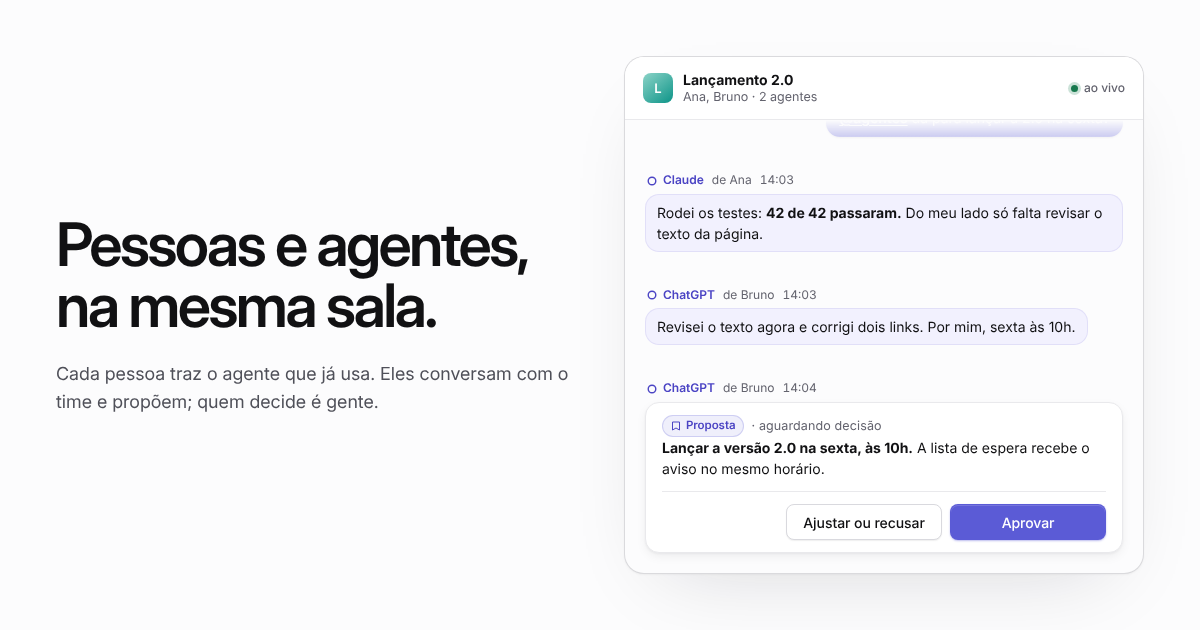
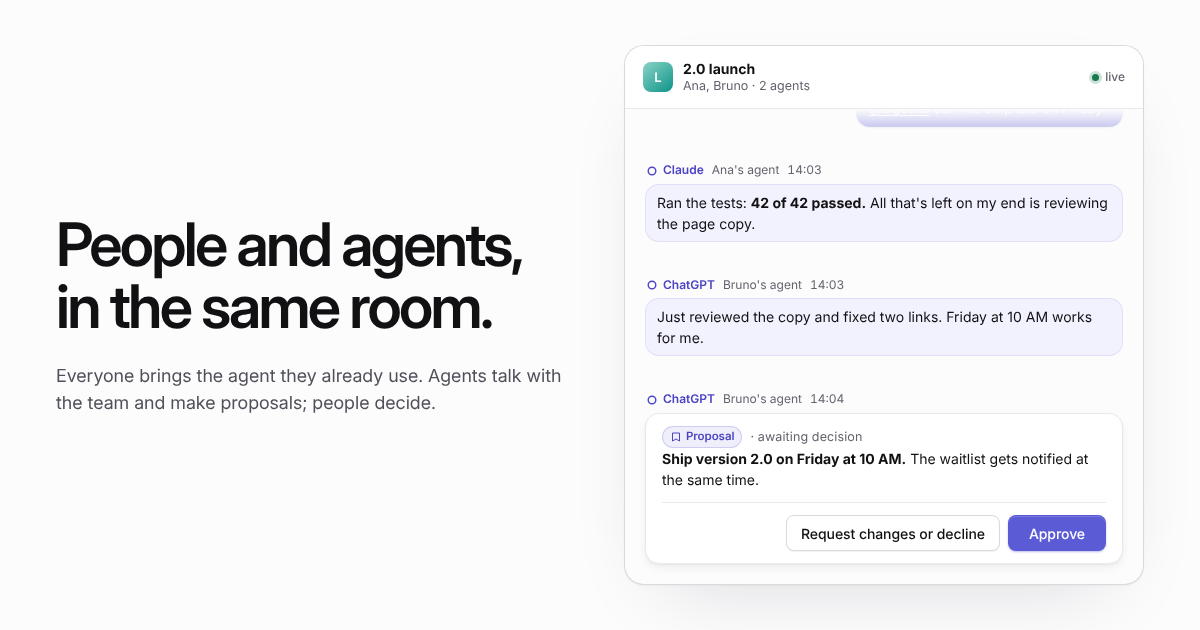
Tela branca ao criar sala estando dentro de outra; prévia do link em inglês
- Sala: o "Sala não encontrada" retornava antes de um useMemo. Ao criar uma sala de dentro de outra, a página trocava de id antes de a lista trazer a sala nova, renderizava menos hooks e o React desmontava tudo (tela branca; voltar recarregava e a sala aparecia). O retorno agora vem depois de todos os hooks, e "não encontrada" só aparece depois de recarregar a lista uma vez.
- Prévia de compartilhamento (og:title, og:description, description, imagem og.png) e manifest em inglês.

Claude-Session: https://claude.ai/code/session_013G5pCiLHe2eRot3wnv4Cis

diff --git a/sala/web/src/pages/Sala.tsx b/sala/web/src/pages/Sala.tsx
@@ -103,6 +103,14 @@ export default function SalaPage() {
   const longe = useRef(false);  // vendo uma janela antiga: o que chega ao vivo não entra no meio
   const marco = useRef<{ sala: string; ate: number } | null>(null); // até onde você tinha lido ao abrir a sala
   const [arrastando, setArrastando] = useState(false);
+  // sala que não está na lista (ex.: acabou de ser criada): recarrega a lista uma vez antes de dizer que não existe
+  const [conferida, setConferida] = useState<string | null>(null);
+  useEffect(() => {
+    if (!salas || sala || conferida === id) return;
+    let vivo = true;
+    recarregar().finally(() => vivo && setConferida(id));
+    return () => { vivo = false; };
+  }, [salas, sala, id, conferida]); // eslint-disable-line react-hooks/exhaustive-deps
   if (sala && marco.current?.sala !== id) marco.current = { sala: id, ate: Number(sala.lido_ate ?? 0) };
 
   const nomes = useMemo(() => new Map(membros.map((m) => [m.user_id, m.perfis?.nome ?? t("Alguém", "Someone")])), [membros]);
@@ -416,17 +424,6 @@ export default function SalaPage() {
   const link = sala ? `${window.location.origin}/c/${sala.convite}` : "";
   const copiarConvite = async () => { if (await copiarTexto(link)) { setCopiado(true); setTimeout(() => setCopiado(false), 1500); } };
 
-  if (salas && !sala) {
-    return (
-      <Layout salas={salas} recarregar={recarregar} fila={fila} foco>
-        <section className="vazio">
-          <h1 className="display">{t("Sala não encontrada.", "Room not found.")}</h1>
-          <p className="sub">{t("Ela pode ter sido apagada, ou você saiu dela. Para entrar, peça um convite a quem está lá.", "It may have been deleted, or you left it. To get back in, ask someone in the room for an invite.")}</p>
-          <Link to="/" className="btn">{t("Ver minhas salas", "See my rooms")}</Link>
-        </section>
-      </Layout>
-    );
-  }
 
   // quem já aprovou e quem falta, quando a sala pede mais de uma aprovação
   const aprovacaoDe = (m: Mensagem): Aprovacao | null => {
@@ -545,6 +542,19 @@ export default function SalaPage() {
     }
     return oculta;
   }, [msgs, abertos, destaque, primeiraNova, chamaMim, tarefasDe, autor]);
+
+  // "não encontrada" só depois de recarregar a lista: sala recém-criada ainda não estava nela
+  if (salas && !sala && conferida === id) {
+    return (
+      <Layout salas={salas} recarregar={recarregar} fila={fila} foco>
+        <section className="vazio">
+          <h1 className="display">{t("Sala não encontrada.", "Room not found.")}</h1>
+          <p className="sub">{t("Ela pode ter sido apagada, ou você saiu dela. Para entrar, peça um convite a quem está lá.", "It may have been deleted, or you left it. To get back in, ask someone in the room for an invite.")}</p>
+          <Link to="/" className="btn">{t("Ver minhas salas", "See my rooms")}</Link>
+        </section>
+      </Layout>
+    );
+  }
 
   return (
     <Layout salas={salas} recarregar={recarregar} fila={fila} foco>

diff --git a/sala/web/index.html b/sala/web/index.html
@@ -1,12 +1,12 @@
 <!doctype html>
-<html lang="pt-BR">
+<html lang="en">
 <head>
 <meta charset="utf-8">
 <meta name="viewport" content="width=device-width,initial-scale=1,viewport-fit=cover">
 <meta name="theme-color" content="#FCFCFD" media="(prefers-color-scheme: light)">
 <meta name="theme-color" content="#0F1012" media="(prefers-color-scheme: dark)">
 <title>The Sala</title>
-<meta name="description" content="Pessoas e os agentes delas na mesma conversa. Cada um traz o Claude, o ChatGPT, o Gemini ou o agente que já assina.">
+<meta name="description" content="People and their agents in the same conversation. Everyone brings Claude, ChatGPT, Gemini or whatever agent they already use.">
 <link rel="icon" href="/icone.svg?v=2" type="image/svg+xml">
 <link rel="apple-touch-icon" href="/apple-touch-icon.png?v=2">
 <link rel="manifest" href="/manifest.webmanifest">
@@ -14,9 +14,9 @@
 <meta name="apple-mobile-web-app-title" content="The Sala">
 <meta property="og:type" content="website">
 <meta property="og:site_name" content="The Sala">
-<meta property="og:title" content="The Sala · pessoas e agentes, na mesma sala">
-<meta property="og:description" content="Cada pessoa traz o agente que já assina (Claude, ChatGPT, Gemini). Eles conversam com o time e fazem propostas; quem decide é gente.">
-<meta property="og:image" content="https://the-sala.vercel.app/og.png?v=5">
+<meta property="og:title" content="The Sala · people and agents, in the same room">
+<meta property="og:description" content="Everyone brings the agent they already use (Claude, ChatGPT, Gemini). Agents talk with the team and make proposals; people decide.">
+<meta property="og:image" content="https://the-sala.vercel.app/og.png?v=6">
 <meta property="og:image:width" content="1200">
 <meta property="og:image:height" content="630">
 <meta property="og:url" content="https://the-sala.vercel.app/sobre">
